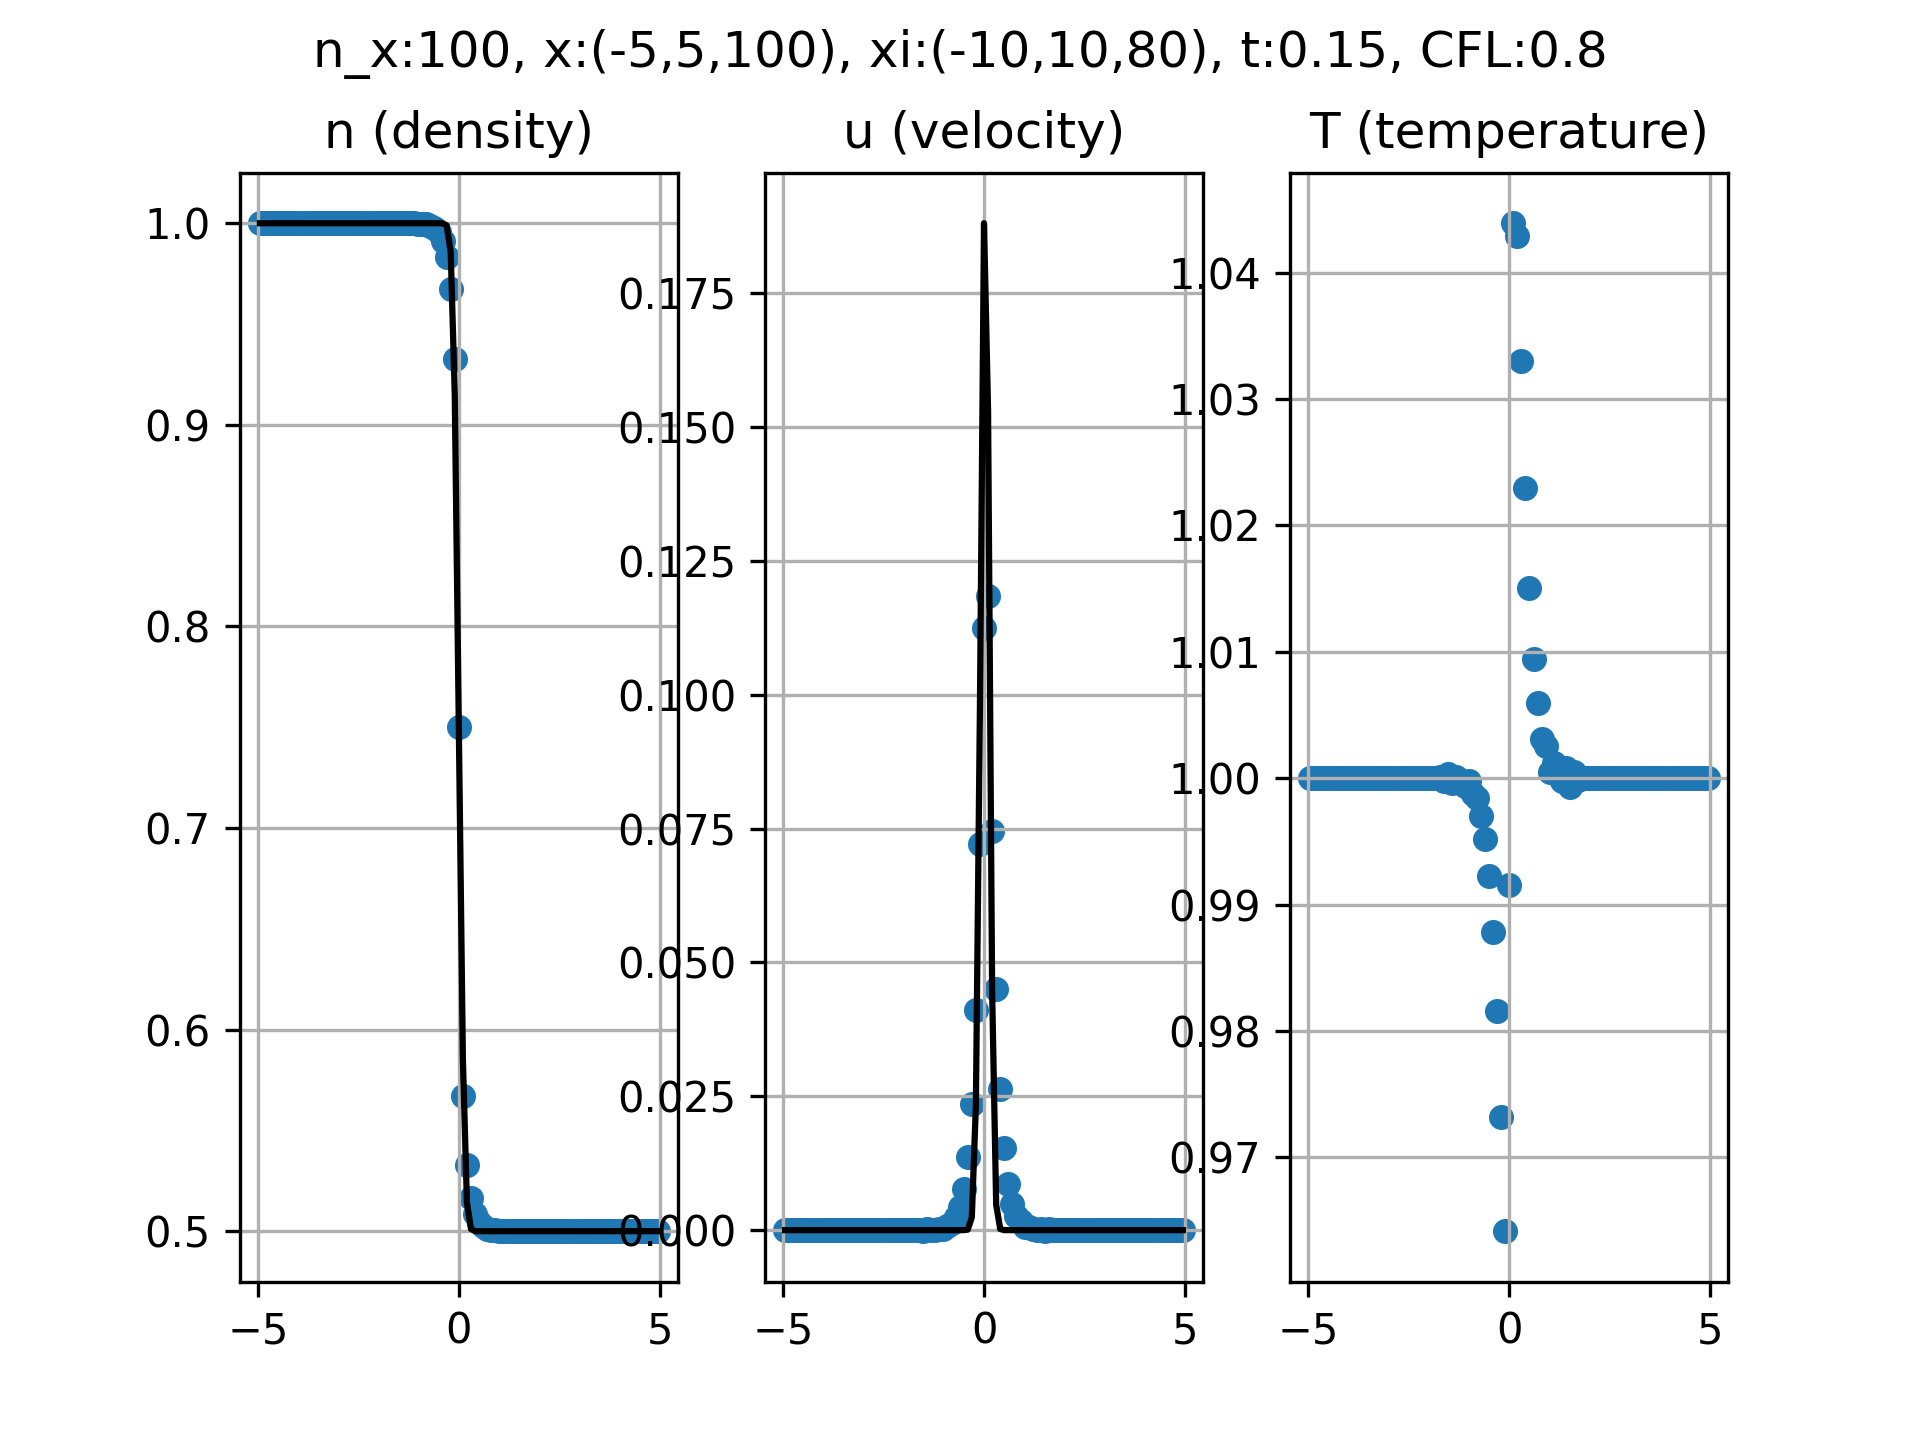
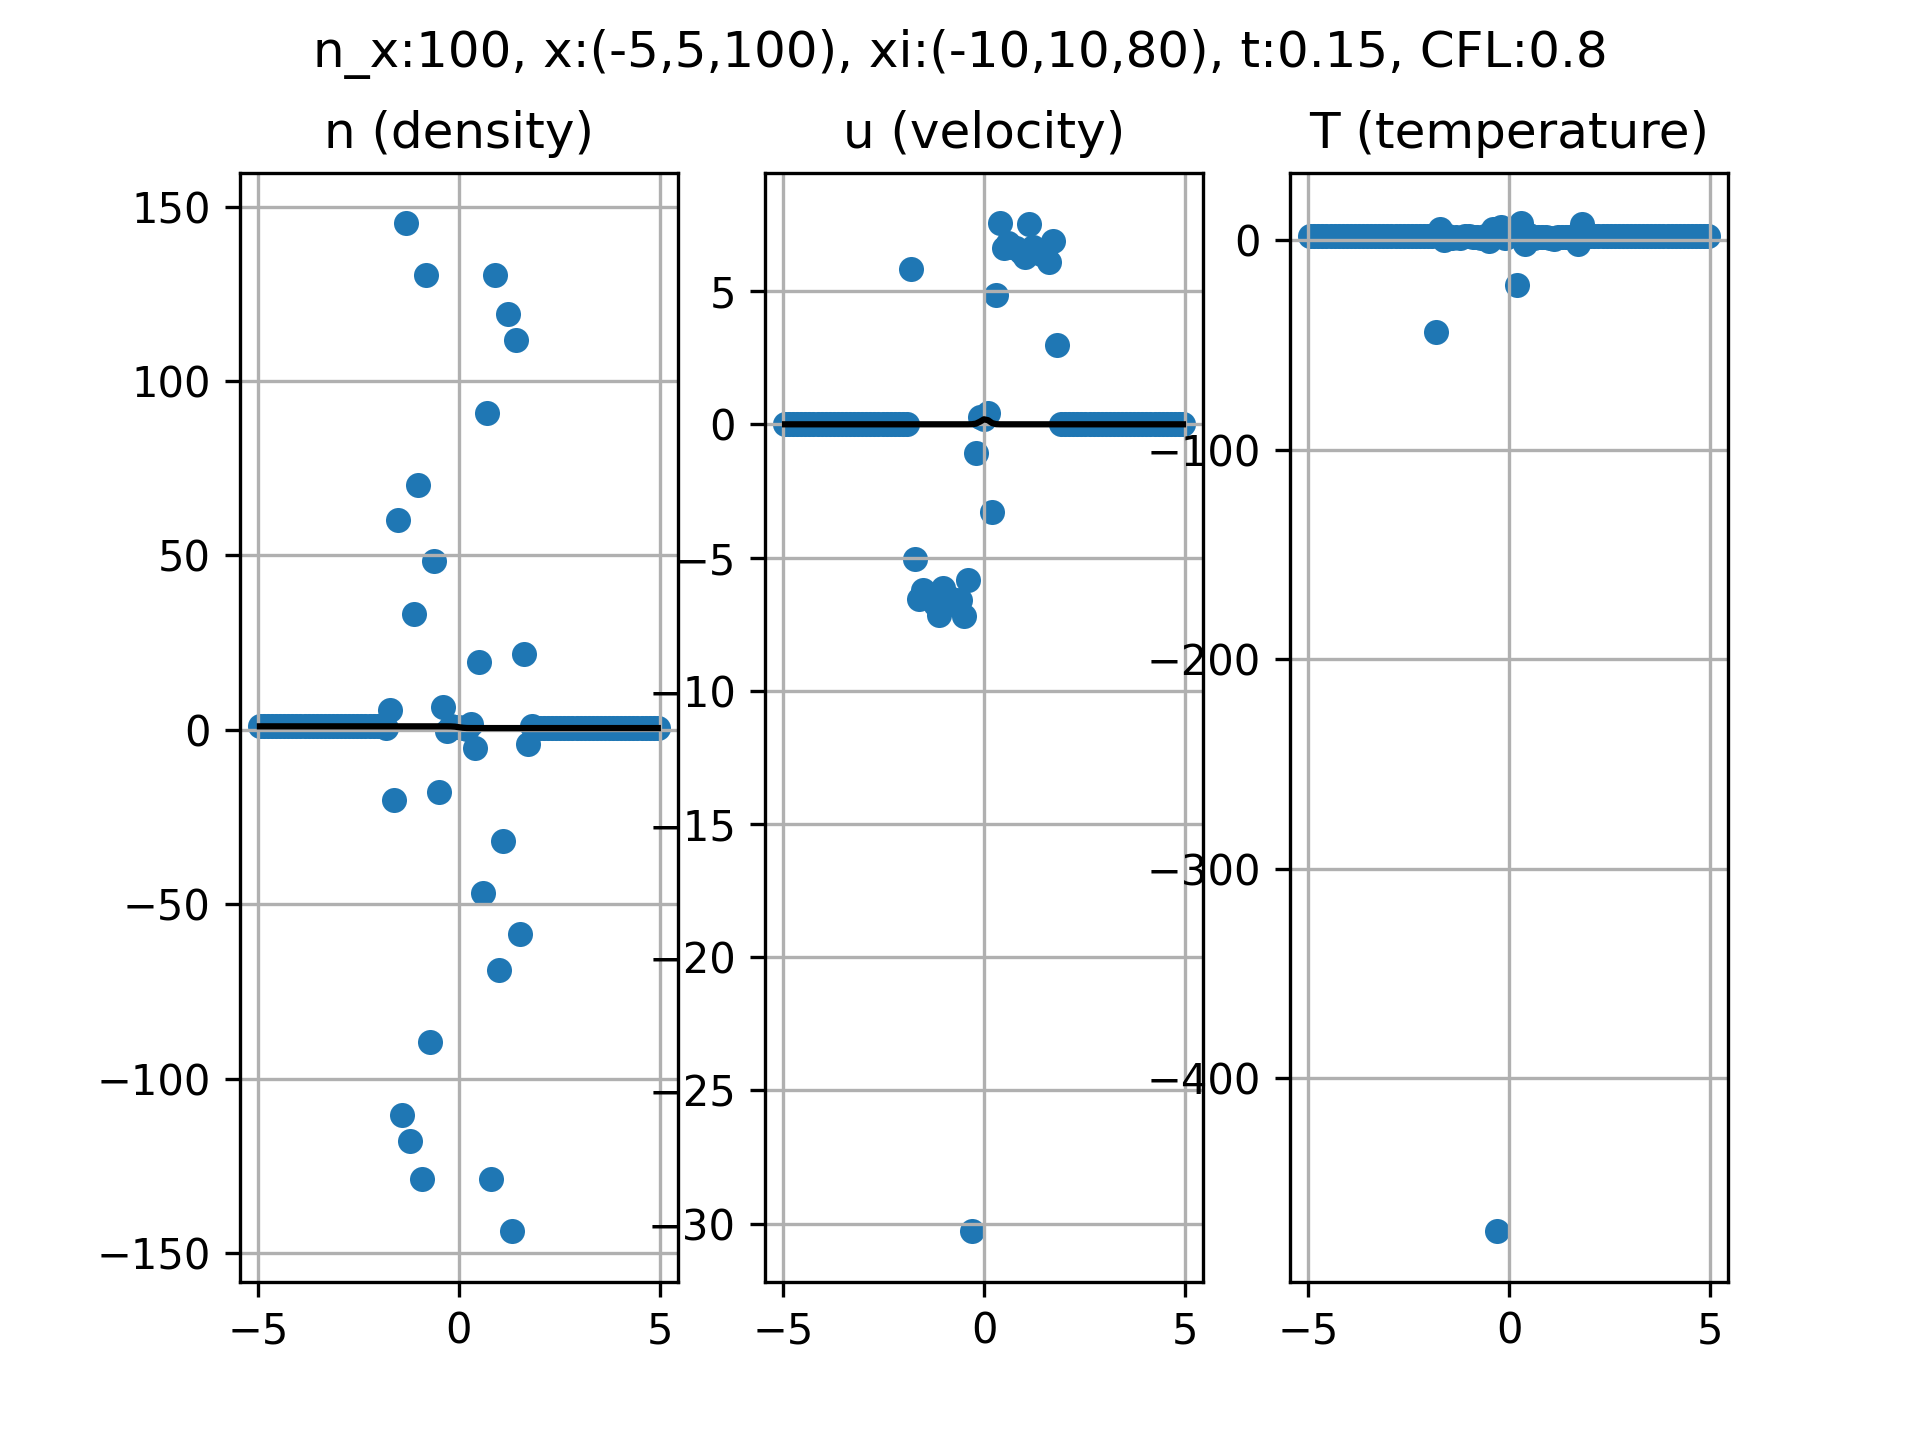
ОЧЕНЬ ВАЖНЫЙ ФИКС

diff --git a/tests/graph_initialization.py b/tests/graph_initialization.py
@@ -2,7 +2,7 @@ from scipy.special import erf
 
 from src.thermodynamics import *
 import matplotlib.pyplot as plt
-from src.solvers import SolverGodunov, SolverRK
+from src.solvers import SolverGodunov
 
 
 def n_exact(x, t):
@@ -11,21 +11,19 @@ def n_exact(x, t):
 def u_exact(x, t):
     return 1/(4*np.pi**0.5)*np.exp(-(x/t)**2)/n_exact(x, t)
 
-CFL = 0.9
-t_max = 0.1
+CFL = 0.7
+t_max = 0.15
 
-n_x = 80
-n_xi = 40
+n_x = 100
+n_xi = 80
 model = BKG(n_x, n_xi)
-solver = SolverRK()
-model.calculate(CFL, t_max, solver.step)
 
 fig, axs = plt.subplots(1, 3)
 fig.suptitle(f'n_x:{n_x}, x:({X_LEFT},{X_RIGHT},{n_x}), xi:({XI_LEFT},{XI_RIGHT},{n_xi}), t:{t_max}, CFL:{CFL}')
 n, u, T, q = model.get_macros()
-#print('n:', n)
-#print('u:', u)
-#print('T:', T)
+print('n:', n)
+print('u:', u)
+print('T:', T)
 
 
 
@@ -43,5 +41,5 @@ axs[1].grid()
 axs[2].set_title('T (temperature)')
 axs[2].scatter(model.x[:-1]+model.h/2, T, linewidth=0.01)
 axs[2].grid()
-plt.savefig(f'infographics/n_x:{n_x}_xi:({XI_LEFT},{XI_RIGHT},{n_xi})_t:{t_max}_CFL:{CFL}.png', dpi=300)
+#plt.savefig(f'infographics/n_x:{n_x}_xi:({XI_LEFT},{XI_RIGHT},{n_xi})_t:{t_max}_CFL:{CFL}.png', dpi=300)
 plt.show()

diff --git a/src/thermodynamics.py b/src/thermodynamics.py
@@ -32,16 +32,18 @@ class BKG:
     def init_F_vectorized(self, n, u, T):
         self.XI1, self.XI2, self.XI3 = np.meshgrid(self.xi, self.xi, self.xi, indexing='ij')
         self.XI_SQUARE = (self.XI1 ** 2 + self.XI2 ** 2 + self.XI3 ** 2)
-        n_cells = len(self.x) - 1
 
         n_4d = n[1:-1].reshape(-1, 1, 1, 1)
         u_4d = u[1:-1].reshape(-1, 1, 1, 1)
         T_4d = T[1:-1].reshape(-1, 1, 1, 1)
 
-        A = n_4d / ((np.pi * T_4d) ** (1.5))
         v_sq = (self.XI1 - u_4d) ** 2 + self.XI2 ** 2 + self.XI3 ** 2
+        M = np.exp(-v_sq / T_4d)
 
-        F = A * np.exp(-v_sq / T_4d)
+        # дискретная нормировка по n
+        Z = np.sum(M, axis=(1, 2, 3), keepdims=True) * (self.xi_cell_size ** 3)
+        F = n_4d * M / Z
+
         return F
 
     def get_n(self):

diff --git a/src/solvers.py b/src/solvers.py
@@ -31,7 +31,7 @@ def minmod(F):
 
 
 def W_god(u_l, u_r, coef_per=1):
-    return 0.5 * coef_per * ((1 + np.sign(coef_per)) * u_l + ((-1 + np.sign(coef_per))) * u_r)
+    return 0.5 * np.sign(coef_per) * ((1 + np.sign(coef_per)) * u_l + ((-1 + np.sign(coef_per))) * u_r)
 
 class Solver(ABC):
     @abstractmethod

diff --git a/config/configuration.py b/config/configuration.py
@@ -5,7 +5,7 @@ TD_PR=0.72
 TD_W=0.81
 
 X_LEFT, X_RIGHT = -5, 5
-XI_LEFT, XI_RIGHT = -10, 10
+XI_LEFT, XI_RIGHT = -5, 5
 
 F_BEG_N = lambda x: 0.75 - 0.25 * np.sign(x)
 F_BEG_U = lambda x: 0
